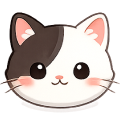
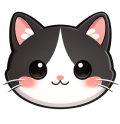
feat: 新增貓咪顏色

Changed region(s): [[0.0, 0.0726, 1.0, 0.8952], [0.425, 0.6048, 0.575, 0.7016]]

diff --git a/src/constants/defaultData.ts b/src/constants/defaultData.ts
@@ -1,8 +1,14 @@
+import catBengalImage from '@/assets/cat-avatars/cat-bengal.png'
 import catBlackImage from '@/assets/cat-avatars/cat-black.png'
+import catBlueImage from '@/assets/cat-avatars/cat-blue.png'
 import catBrownImage from '@/assets/cat-avatars/cat-brown.png'
 import catCalicoImage from '@/assets/cat-avatars/cat-calico.png'
+import catCreamImage from '@/assets/cat-avatars/cat-cream.png'
 import catGrayImage from '@/assets/cat-avatars/cat-gary.png'
+import catMackerelImage from '@/assets/cat-avatars/cat-mackerel.png'
 import catOrangeImage from '@/assets/cat-avatars/cat-orange.png'
+import catRagdollImage from '@/assets/cat-avatars/cat-ragdoll.png'
+import catSiameseImage from '@/assets/cat-avatars/cat-siamese.png'
 import catTabbyImage from '@/assets/cat-avatars/cat-tabby.png'
 import catTortoiseshellImage from '@/assets/cat-avatars/cat-tortoiseshell.png'
 import catTuxedoImage from '@/assets/cat-avatars/cat-tuxedo.png'
@@ -23,6 +29,12 @@ export const CAT_AVATAR_OPTIONS = [
   { id: 'brown', label: '棕白', image: catBrownImage },
   { id: 'gray', label: '銀灰', image: catGrayImage },
   { id: 'tuxedo', label: '賓士', image: catTuxedoImage },
+  { id: 'bengal', label: '豹貓', image: catBengalImage },
+  { id: 'ragdoll', label: '布偶', image: catRagdollImage },
+  { id: 'siamese', label: '暹羅', image: catSiameseImage },
+  { id: 'cream', label: '奶色', image: catCreamImage },
+  { id: 'blue', label: '藍貓', image: catBlueImage },
+  { id: 'mackerel', label: '鯖魚虎斑', image: catMackerelImage },
 ] as const satisfies ReadonlyArray<{
   id: CatAvatarId
   label: string

diff --git a/src/repositories/supabaseCatTrackerMapper.ts b/src/repositories/supabaseCatTrackerMapper.ts
@@ -180,7 +180,13 @@ function isCatAvatarId(value: string | null): value is CatAvatarId {
     value === 'white' ||
     value === 'brown' ||
     value === 'gray' ||
-    value === 'tuxedo'
+    value === 'tuxedo' ||
+    value === 'bengal' ||
+    value === 'ragdoll' ||
+    value === 'siamese' ||
+    value === 'cream' ||
+    value === 'blue' ||
+    value === 'mackerel'
   )
 }
 

diff --git a/src/types/cat.ts b/src/types/cat.ts
@@ -53,6 +53,12 @@ export type CatAvatarId =
   | 'brown'
   | 'gray'
   | 'tuxedo'
+  | 'bengal'
+  | 'ragdoll'
+  | 'siamese'
+  | 'cream'
+  | 'blue'
+  | 'mackerel'
 
 export type CategoryColorId =
   | 'red'
